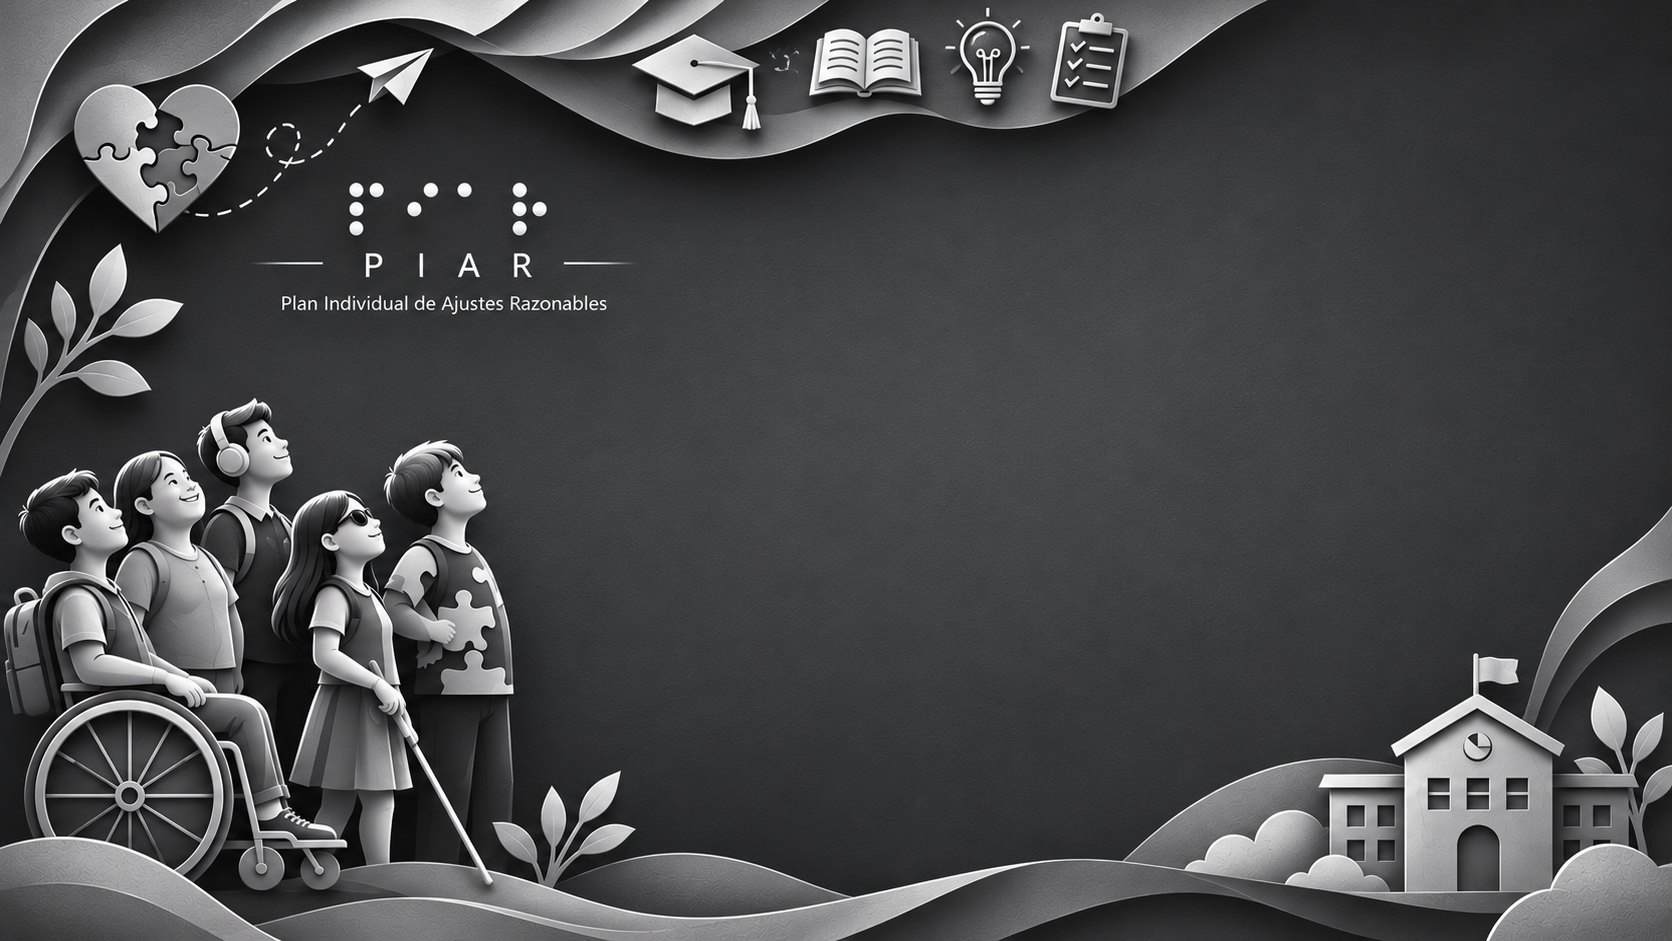
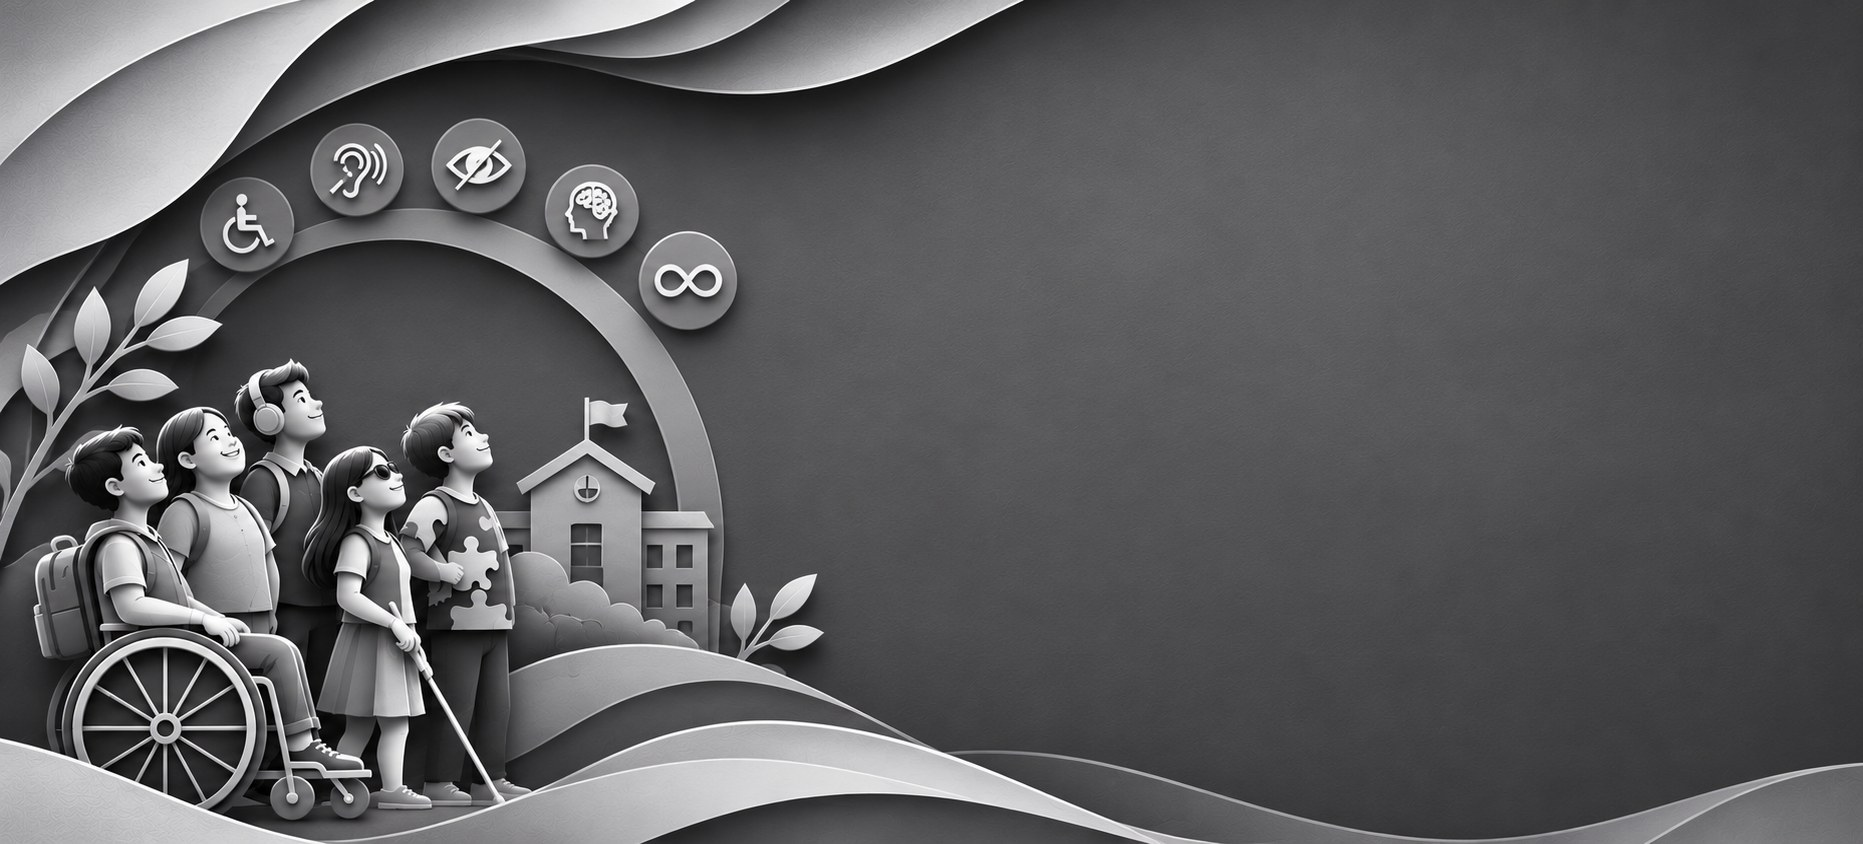
Login: fondo alargado (ilustración a la izquierda, panel a la derecha)
Nuevo fondo con la ilustración inclusiva alargada al lado izquierdo y el
lado derecho despejado para el panel de acceso; encuadre a la izquierda
para no recortar a los niños y degradado que oscurece el lado derecho.

Claude-Session: https://claude.ai/code/session_019MV2CimWCAjkEaFsv1m9di

diff --git a/client/src/styles/theme.css b/client/src/styles/theme.css
@@ -391,11 +391,11 @@ table.ftabla th { background: var(--gris-700); color: #fff; font-size: 11px; fon
   justify-content: flex-end; align-items: stretch; padding: 0;
   background-color: #2b2d30;
   background-image:
-    linear-gradient(90deg, rgba(20,21,23,0) 46%, rgba(20,21,23,0.45) 66%, rgba(16,17,19,0.78) 100%),
+    linear-gradient(90deg, rgba(20,21,23,0) 40%, rgba(20,21,23,0.4) 60%, rgba(16,17,19,0.72) 100%),
     url('/login-bg.jpg');
   background-size: cover, cover;
   background-repeat: no-repeat, no-repeat;
-  background-position: center, center;
+  background-position: center, left center;
 }
 .login-panel-centro {
   width: 460px; max-width: 46vw; min-height: 100vh; margin: 0;
